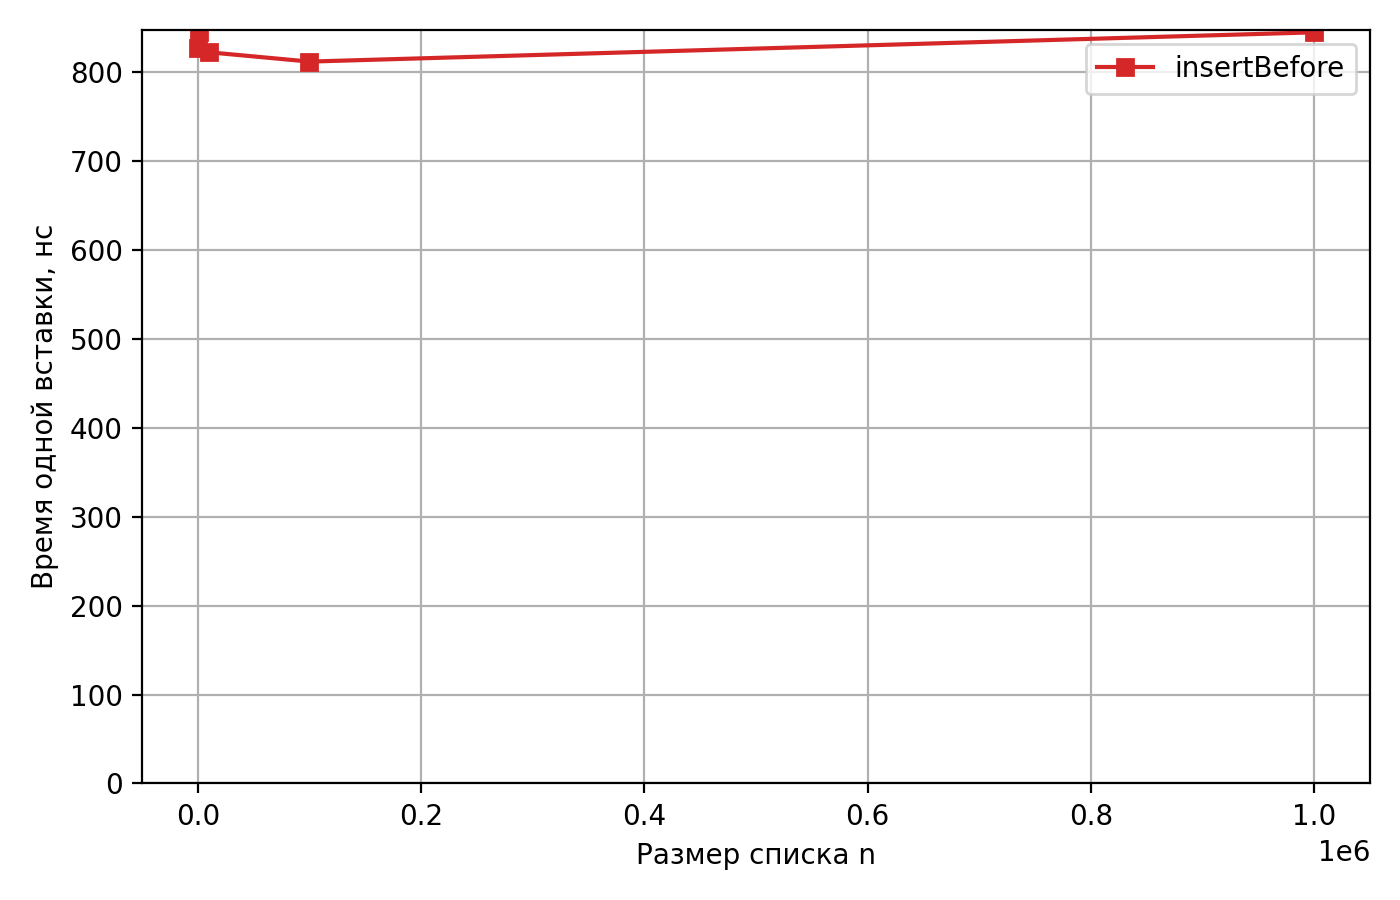
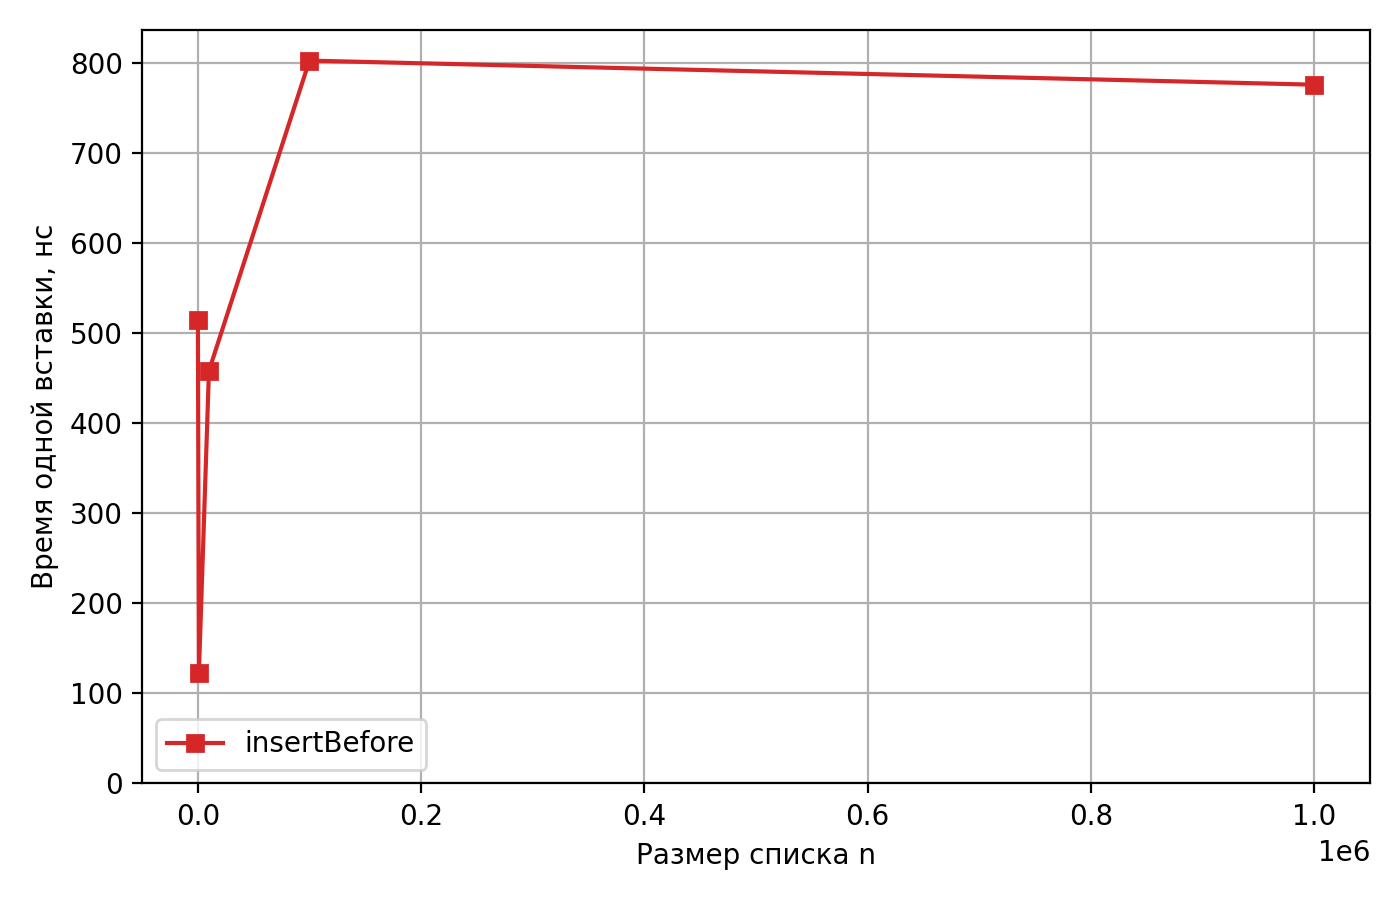
fixed benchmark bugs

Changed region(s): [[0.0307, 0.2489, 0.9829, 0.8711], [0.0307, 0.0311, 0.9829, 0.2178], [0.0307, 0.3422, 0.0921, 0.4044]]

diff --git a/Laboratory3.cpp b/Laboratory3.cpp
@@ -1,4 +1,6 @@
 #include <fstream>
+#include <iomanip>
+#include <ios>
 #include <iostream>
 #include <chrono>
 #include <random>
@@ -106,7 +108,7 @@ void fillRandom(SinglyList& list, int n, std::mt19937& gen) {
 double benchInsertBefore(int n, int k, std::mt19937& gen){
     SinglyList benchList;
     fillRandom(benchList, n, gen);
-    auto target = benchList.findNode(0);
+    auto target = benchList.findNode(n - 1); // Здесь
 
     auto start = Clock::now();
 
@@ -122,7 +124,7 @@ double benchInsertBefore(int n, int k, std::mt19937& gen){
 double benchInsertAfter(int n, int k, std::mt19937& gen) {
     SinglyList benchList;
     fillRandom(benchList, n, gen);
-    auto target = benchList.findNode(0);
+    auto target = benchList.findNode(n - 1); // Здесь
 
     auto start = Clock::now();
 
@@ -141,6 +143,7 @@ int main() {
     std::ofstream file("result.csv");
     if (file.is_open()) {
         int size[5] = {100, 1000, 10000, 100000, 1000000};
+        file << std::fixed << std::setprecision(1);
         file << "n,after_ns,before_ns\n";
         for (int i = 0; i < 5; i++) {
             double iBefore = 0;
@@ -148,7 +151,7 @@ int main() {
 
             for (int j = 0; j < 5; j++) {
                 iAfter += benchInsertAfter(size[i], 1000, gen);
-                iBefore += benchInsertBefore(size[i], 1000, gen);
+                iBefore += benchInsertBefore(size[i], std::min(1000, size[i]/5), gen);
             }
 
             file << size[i] << ',' << iAfter / 5 << ',' << iBefore / 5 << '\n';

diff --git a/tables.py b/tables.py
@@ -1,14 +1,16 @@
 import pandas as pd
 
+pd.options.display.float_format = "{:.1f}".format
+
 # Усреднение худших результатов
 frames = [pd.read_csv(f"worse/result0{i}.csv", skipinitialspace=True) for i in range(1, 5)]
 table = pd.concat(frames).groupby("n").mean()
-table.to_csv("worse/avgWorse.csv")
+table.to_csv("worse/avg.csv")
 print(table)
 print()
 
 # Усреднение лучших результатов
 frames = [pd.read_csv(f"best/result0{i}.csv", skipinitialspace=True) for i in range(1, 5)]
 table = pd.concat(frames).groupby("n").mean()
-table.to_csv("best/avgBest.csv")
+table.to_csv("best/avg.csv")
 print(table)
